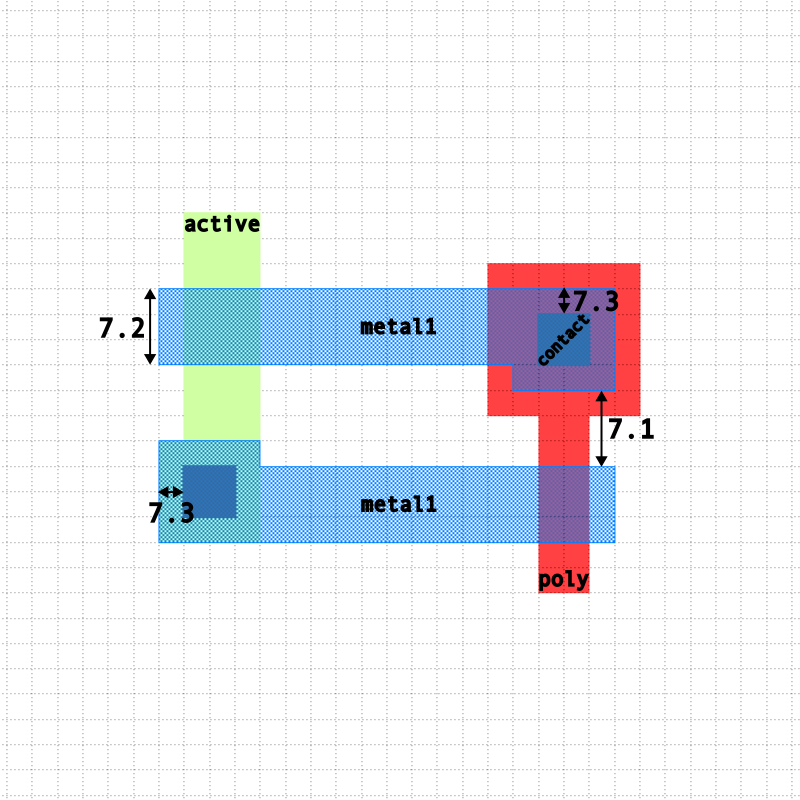
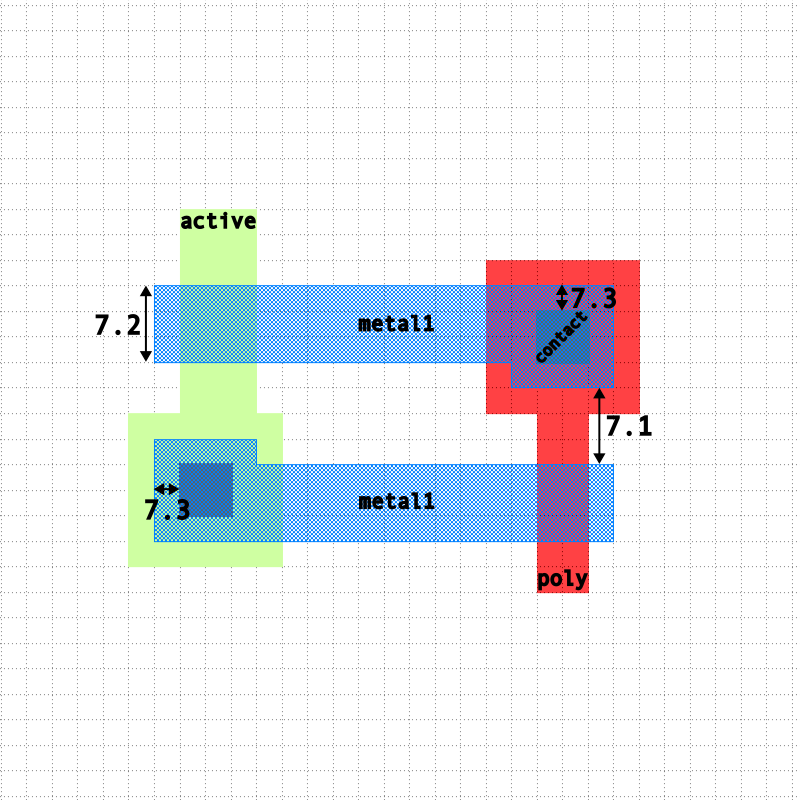
TinyDRM v0.2. pin rules

Changed region(s): [[0.125, 0.25, 0.8125, 0.75]]

diff --git a/docs/ece6745-design-rule-manual.md b/docs/ece6745-design-rule-manual.md
@@ -95,6 +95,18 @@ metal1
 
 ![Metal1](img/0-klayout-drm-metal1.png)
 
+metal1 label
+--------------------------------------------------------------------------
+
+| Rule     | Description                                                                | $\lambda$               |
+|----------|----------------------------------------------------------------------------|-------------------------|
+| label.1  | Track alignment                                                            | -                       |
+| label.2  | Minimum metal1 overlap                                                  | 4 $\times$ 4                        |
+
+
+
+![Metal1](img/0-klayout-drm-metal1label.png)
+
 via12 & above
 --------------------------------------------------------------------------
 coming in v1
